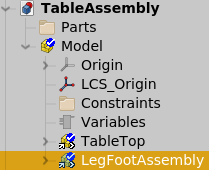
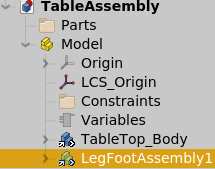
Changed from Model to Body tree.
Added bonus section - adjust positions simultaneously with LCS offset.
Minor corrections.

diff --git a/TableSubassy.md b/TableSubassy.md
@@ -17,45 +17,32 @@ Create the following five files, saving them in the same directory for convenien
 
 ![](TableSubassyScreenshots/Files.png)
 
+---------------------
+Create the table top:
+=======================
+
 Switch to the TableTop tab at the bottom of your window: ![](TableSubassyScreenshots/TabTableTop.png)
 
-Choose the Assembly 4 workbench ![](TableSubassyScreenshots/Assy4Workbench.png)  and insert a new Assembly4 Model: ![](TableSubassyScreenshots/Assy4Model.png)
-
-Create a new Body ![](TableSubassyScreenshots/NewBody.png) leaving the default name "Body".
+Choose the Assembly 4 workbench ![](TableSubassyScreenshots/Assy4Workbench.png)  and create a new Body ![](TableSubassyScreenshots/NewBody.png) leaving the default name "Body".
 
 Expanding our model tree, it now looks like this:
 
 ![](TableSubassyScreenshots/TreeTable.png)
 
-Drag the parts folder into the Model in the tree.  This simplifies later steps when choosing what to include in our assembly.
-
-
-![](TableSubassyScreenshots/TreeTablePartsMoved.png)
-
-Add a Model ![](TableSubassyScreenshots/Assy4Model.png) and Body ![](TableSubassyScreenshots/NewBody.png) in the same way for the *Leg* and *Foot* files.
-
-For the LegFootAssembly and the TableAssembly files, add a model ![](TableSubassyScreenshots/Assy4Model.png) only.  We don't need a Body for these (though it won't do any harm).
-
-
----------------------
-Create the table top:
-=======================
-
-Switch to the *TabelTop* file, select the Assembly 4 workbench ![](TableSubassyScreenshots/Assy4Workbench.png).
-
 Right-click on the Body in the tree:
+
 ![](TableSubassyScreenshots/ActiveBody.png)
 and select "Toggle active body".
-This will change you out of the **Assembly 4** workbench to the **Part Design** workbench.
+This will change you out of the **Assembly 4** workbench to the **Part Design** workbench. ![](TableSubassyScreenshots/WorkbenchPartDesign.png)
 
-Click on the New Sketch button: ![](TableSubassyScreenshots/NewSketch.png).  Select XY_Plane001 (Base Plane) from the dialog and hit OK.
+Click on the New Sketch button: ![](TableSubassyScreenshots/NewSketch.png).  Select "XY_Plane001 (Base Plane)" from the dialog and hit OK.
 
 Create the following sketch of approximately 600mm x 400mm small table top:
 ![](TableSubassyScreenshots/SketchTableTop.png)
 
 Constrain the corners to the centre with a symmetry constraint.  (Select the two corners, then the origin, and hit the 's' key).
 
-Hit ESC or OK and pad the selected sketch ![](TableSubassyScreenshots/PadSketch.png) by 20mm:
+Hit ESC or OK and pad the selected sketch ![](TableSubassyScreenshots/PadSketch.png) by 20mm, then zoom out to see your part:
 
 ![](TableSubassyScreenshots/TableTopComplete.png)
 
@@ -89,7 +76,7 @@ Repeat the procedure again, this time creating a circular sketch with a 60mm dia
 
 Constrain the sketch centrepoint to the origin (select both points and hit 'c' for coincident)
 
-This time, when you create the pad feature, reverse the direction so that the solid is below the origin:
+This time, when you create the pad feature, make it **10mm**, and reverse the direction so that the solid is below the origin:
 
 ![](TableSubassyScreenshots/FootPadReversed.png)
 
@@ -106,17 +93,21 @@ Create the leg and foot assembly:
 
 To enable file model names to appear in the assembly windows, close all the files and re-open them.
 
+For the LegFootAssembly, add a Model ![](TableSubassyScreenshots/Assy4Model.png).  We don't need a Body in the assembly as we did in the *Leg* and *Foot* (though it won't do any harm).
+
 Select the *LegFootAssembly* tab (at the bottom of the window)
 
 ![](TableSubassyScreenshots/LegFootAssemblyTab.png)
 
 to activate the file.
 
+Create a new Assembly 4 model. ![](TableSubassyScreenshots/Assy4Model.png)
+
 From the Assembly 4 workbench toolbar, select "*Insert part into the assembly*".  ![](TableSubassyScreenshots/InsertPartAssembly.png)
 
-Choose **Leg#Model** and click OK.
+Choose **Leg#Body** and click OK.
 
-Repeat for the foot, choosing **Foot#Model**.
+Repeat for the foot, choosing **Foot#Body**.
 
 Because we chose the pad direction for the leg to be **up** from the origin, and the pad direction for the foot to be **down**, the parts automatically align correctly, each with its origin at the assembly origin:
 
@@ -131,12 +122,14 @@ Create the table assembly:
 
 Activate the *TableAssembly* file: ![](TableSubassyScreenshots/TableAssyTab.png)
 
+Add a model ![](TableSubassyScreenshots/Assy4Model.png) only.  As with the foot assembly, a Body is not required.
+
 Insert the *TableTop* part into the assembly
 -------------
 
 From the Assembly 4 workbench toolbar, select *Insert part into the assembly*.  ![](TableSubassyScreenshots/InsertPartAssembly.png)
 
-Select **TableTop#Model** and hit OK.
+Select **TableTop#Body** and hit OK.
 This will insert the *TableTop* part at the origin.
 
 ![](TableSubassyScreenshots/AssemblyTop.png)
@@ -156,7 +149,7 @@ We need to attach it to the corner of the table.  For this, we need to create **
 
 **Create the *TableTop* LCSs:**
 
-Open the *TableTop* file and click Create new co-ordinate system in part. ![](TableSubassyScreenshots/CreateCoordinateSystem.png)
+Open the *TableTop* file, select the **Body** in the tree and click "Create new co-ordinate system in part." ![](TableSubassyScreenshots/CreateCoordinateSystem.png) from the Assembly 4 workbench.
 
 Rename it to "LCS\_Leg1"
 
@@ -176,7 +169,7 @@ Select "Edit Datum" to bring up the Co-ordinate system parameters dialog.
 
 ![](TableSubassyScreenshots/LCSCoordinateSystmemParameters.png)
 
-In the order shown by 1,2 and 3 below, select the bottom corners of the table top:
+In the order shown by 1,2 and 3 below, select the **vertices** at the bottom corners of the table top:
 
 ![](TableSubassyScreenshots/LCSCoordinateSystemMove1.png)
 
@@ -188,6 +181,9 @@ This will align the new LCS as shown:
 
 ![](TableSubassyScreenshots/LCSAligned.png)
 
+**\*Note:** If you have a high-res screen, it may be easier to select the vertices if you increase the pick radius:
+*Edit -> Preferences -> Display -> Colours(yes!) -> Pick radius*
+
 Add LCS\_Leg2, LCS\_Leg3 and LCS\_Leg4 in the same way, rotating the table top each time.
 
 **\*Note:** Ensure you select three **vertices** each time for your Origin, X-direction and Y-direction, and not one of the other LCSs you just created.
@@ -196,11 +192,11 @@ Our part should now look like this:
 
 ![](TableSubassyScreenshots/LCSAlignedComplete.png)
 
-Also check that your LCSs are created at the root of the model tree as shown:
+Also check that your LCSs are created at the root of the Body tree as shown:
 
 ![](TableSubassyScreenshots/TreeLCSRoot.png)
 
-If you want to import this LCS into another assembly later, it must be at the root level.
+If you want to import an LCS into another assembly later, it must be at the root level.
 
 **Create the LegFootAssembly LCS:**
 
@@ -221,7 +217,7 @@ Right click on the new LCS in the model tree:
 
 and select "Edit datum".
 
-As before with the table top, select the three corners and choose attachment mode **O-X-Y**.
+As before with the *TableTop*, select the three corners and choose attachment mode **O-X-Y**.  This time, choose the corners at the **top** of the leg, so that the top of the *Leg* will attach to the bottom of the *TableTop*.
 
 ![](TableSubassyScreenshots/LCS_LegOXY.png)
 
@@ -273,3 +269,27 @@ Summary
 We need a total of nine parts to assemble the table: four legs, four feet and a table top.  We could add each of these nine individually, but it is much faster - and easier to update - if we include the leg and foot together as a sub-assembly.
 
 To do this, we need to add a Local Co-ordinate System to the leg, and import it into the leg/foot subassembly for use in the finished product.
+
+Bonus exercise:
+=================
+
+Now that we have used the LCS in the *LegFootAssembly* to position the parts on the *TableTop*, moving them is very simple:
+
+Activate the *Leg* file.
+
+Right-click on LCS\_TopCorner and select "Edit datum":
+
+![](TableSubassyScreenshots/LCS_TopCornerRightClick.png)
+
+Move the LCS out from the Body with an offset of -10mm in the X and Y directions:
+
+![](TableSubassyScreenshots/AttachmentOffset.png)
+
+Click OK.
+
+As this is the point that is attached to the *TableTop*, the legs will move inwards.
+
+Activate the *TableAssembly* file and click the "Update Assembly" ![](TableSubassyScreenshots/UpdateAssembly.png) button on the Assembly 4 workbench toolbar.
+
+The four legs now move in under the table slightly as shown.
+We adjust LCS positions by rotating or translating on any axis as needed, making this a good modular design.
